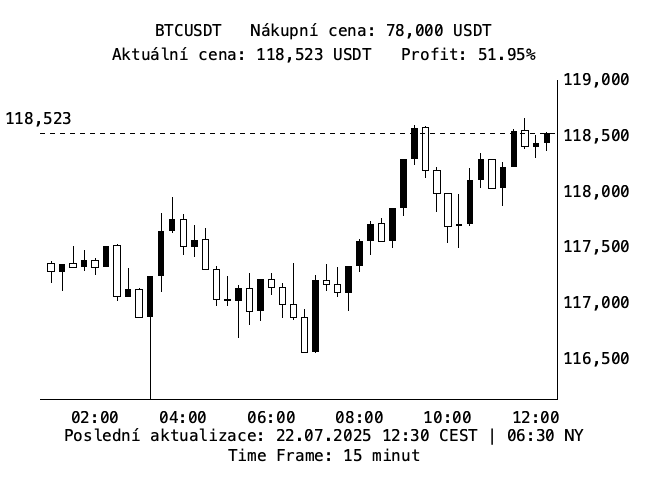
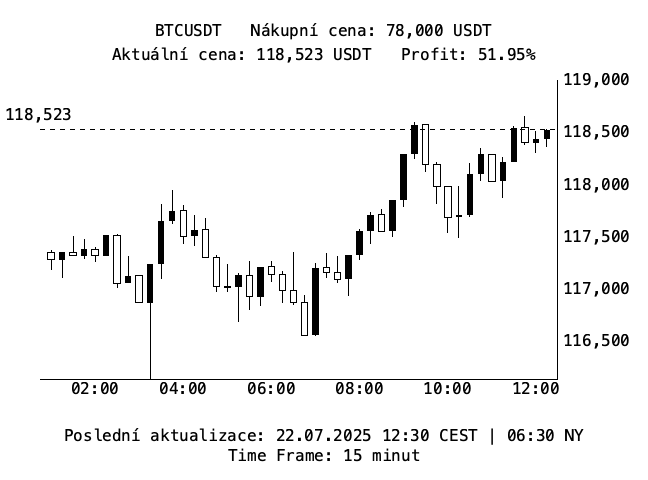
Vylepšený graf s IBM Plex fontem, přesnější pozice textů

diff --git a/render.js b/render.js
@@ -55,9 +55,20 @@ async function drawChart() {
     const paddingLeft = 40;
     const paddingRight = 90;
     const paddingTop = 80;
-    const paddingBottom = 80;
+    // Decreased paddingBottom to reduce the gap
+    const paddingBottom = 100; // Adjusted from 120 to 100
     const chartWidth = width - paddingLeft - paddingRight;
     const chartHeight = height - paddingTop - paddingBottom;
+
+    if (chartHeight <= 0) {
+        console.error("Chart height is too small or negative. Adjust padding values.");
+        ctx.fillStyle = 'black';
+        ctx.font = '16px "IBMPlexMono", monospace';
+        ctx.textAlign = 'center';
+        ctx.fillText('Chyba rozměrů grafu!', width / 2, height / 2);
+        saveImage();
+        return;
+    }
 
     const times = candles.map(c => c.t);
     const minTime = Math.min(...times);
@@ -74,17 +85,20 @@ async function drawChart() {
     ctx.fillStyle = 'black';
     ctx.lineWidth = 1;
 
+    // Draw X-axis (bottom line of the chart)
     ctx.beginPath();
     ctx.moveTo(paddingLeft, paddingTop + chartHeight);
     ctx.lineTo(paddingLeft + chartWidth, paddingTop + chartHeight);
     ctx.stroke();
 
+    // Draw Y-axis (right line of the chart)
     const axisY_XPosition = paddingLeft + chartWidth;
     ctx.beginPath();
     ctx.moveTo(axisY_XPosition, paddingTop);
     ctx.lineTo(axisY_XPosition, paddingTop + chartHeight);
     ctx.stroke();
 
+    // Draw Y-axis labels
     ctx.font = '16px "IBMPlexMono", monospace';
     ctx.textAlign = 'left';
     ctx.textBaseline = 'middle';
@@ -94,6 +108,7 @@ async function drawChart() {
         ctx.fillText(p.toLocaleString(), axisY_XPosition + 5, y);
     }
 
+    // Draw candles
     const barWidth = Math.max(2, chartWidth / candles.length * 0.6);
     candles.forEach(c => {
         const x = paddingLeft + (c.t - minTime) * scaleX;
@@ -119,6 +134,7 @@ async function drawChart() {
         }
     });
 
+    // Draw current price line
     const yCurrentPrice = paddingTop + chartHeight - (lastClosedCandlePrice - adjustedMinPrice) * scaleY;
     ctx.setLineDash([5, 5]);
     ctx.beginPath();
@@ -127,10 +143,17 @@ async function drawChart() {
     ctx.stroke();
     ctx.setLineDash([]);
 
+    // Draw current price label on Y-axis
     ctx.font = '16px "IBMPlexMono", monospace';
+    ctx.textAlign = 'left';
+    ctx.textBaseline = 'bottom';
+    ctx.fillText(Math.round(lastClosedCandlePrice).toLocaleString(), 5, yCurrentPrice - 5);
+
+
     ctx.textAlign = 'center';
     ctx.fillStyle = 'black';
 
+    // Draw X-axis labels (times)
     const hoursToShow = [0, 2, 4, 6, 8, 10, 12, 14, 16, 18, 20, 22];
     for (let t = Math.ceil(minTime / (1000 * 60 * 60)) * (1000 * 60 * 60); t <= maxTime; t += (1000 * 60 * 60)) {
         const x = paddingLeft + (t - minTime) * scaleX;
@@ -138,20 +161,18 @@ async function drawChart() {
         const hour = new Date(t).getHours();
         if (hoursToShow.includes(hour)) {
             const label = format(new Date(t), 'HH:mm');
-            ctx.fillText(label, x, paddingTop + chartHeight + 18);
+            // X-axis label position, relative to the new paddingBottom
+            ctx.fillText(label, x, paddingTop + chartHeight + 18); 
         }
     }
 
-    ctx.textAlign = 'left';
-    ctx.textBaseline = 'bottom';
-    ctx.fillText(Math.round(lastClosedCandlePrice).toLocaleString(), 5, yCurrentPrice - 5);
-
+    // Header information
     const averageBuyPrice = 78000;
     const profit = ((lastClosedCandlePrice - averageBuyPrice) / averageBuyPrice) * 100;
-    ctx.textAlign = 'center';
     ctx.fillText(`BTCUSDT   Nákupní cena: ${averageBuyPrice.toLocaleString()} USDT`, width / 2, 40);
     ctx.fillText(`Aktuální cena: ${Math.round(lastClosedCandlePrice).toLocaleString()} USDT   Profit: ${profit.toFixed(2)}%`, width / 2, 64);
 
+    // Footer information (Last update and Time Frame)
     const lastCandleTime = new Date(candles[candles.length - 1].t);
     const formattedDate = format(lastCandleTime, 'dd.MM.yyyy');
     const cestHours = lastCandleTime.getHours();
@@ -160,6 +181,7 @@ async function drawChart() {
     const nyHours = (utcHours - 4 + 24) % 24;
     const nyMins = lastCandleTime.getUTCMinutes();
 
+    // Y positions for footer text are kept relative to height, which adjusts with paddingBottom
     ctx.fillText(`Poslední aktualizace: ${formattedDate} ${('0' + cestHours).slice(-2)}:${('0' + cestMins).slice(-2)} CEST | ${('0' + nyHours).slice(-2)}:${('0' + nyMins).slice(-2)} NY`, width / 2, height - 35);
     ctx.fillText('Time Frame: 15 minut', width / 2, height - 15);
 
